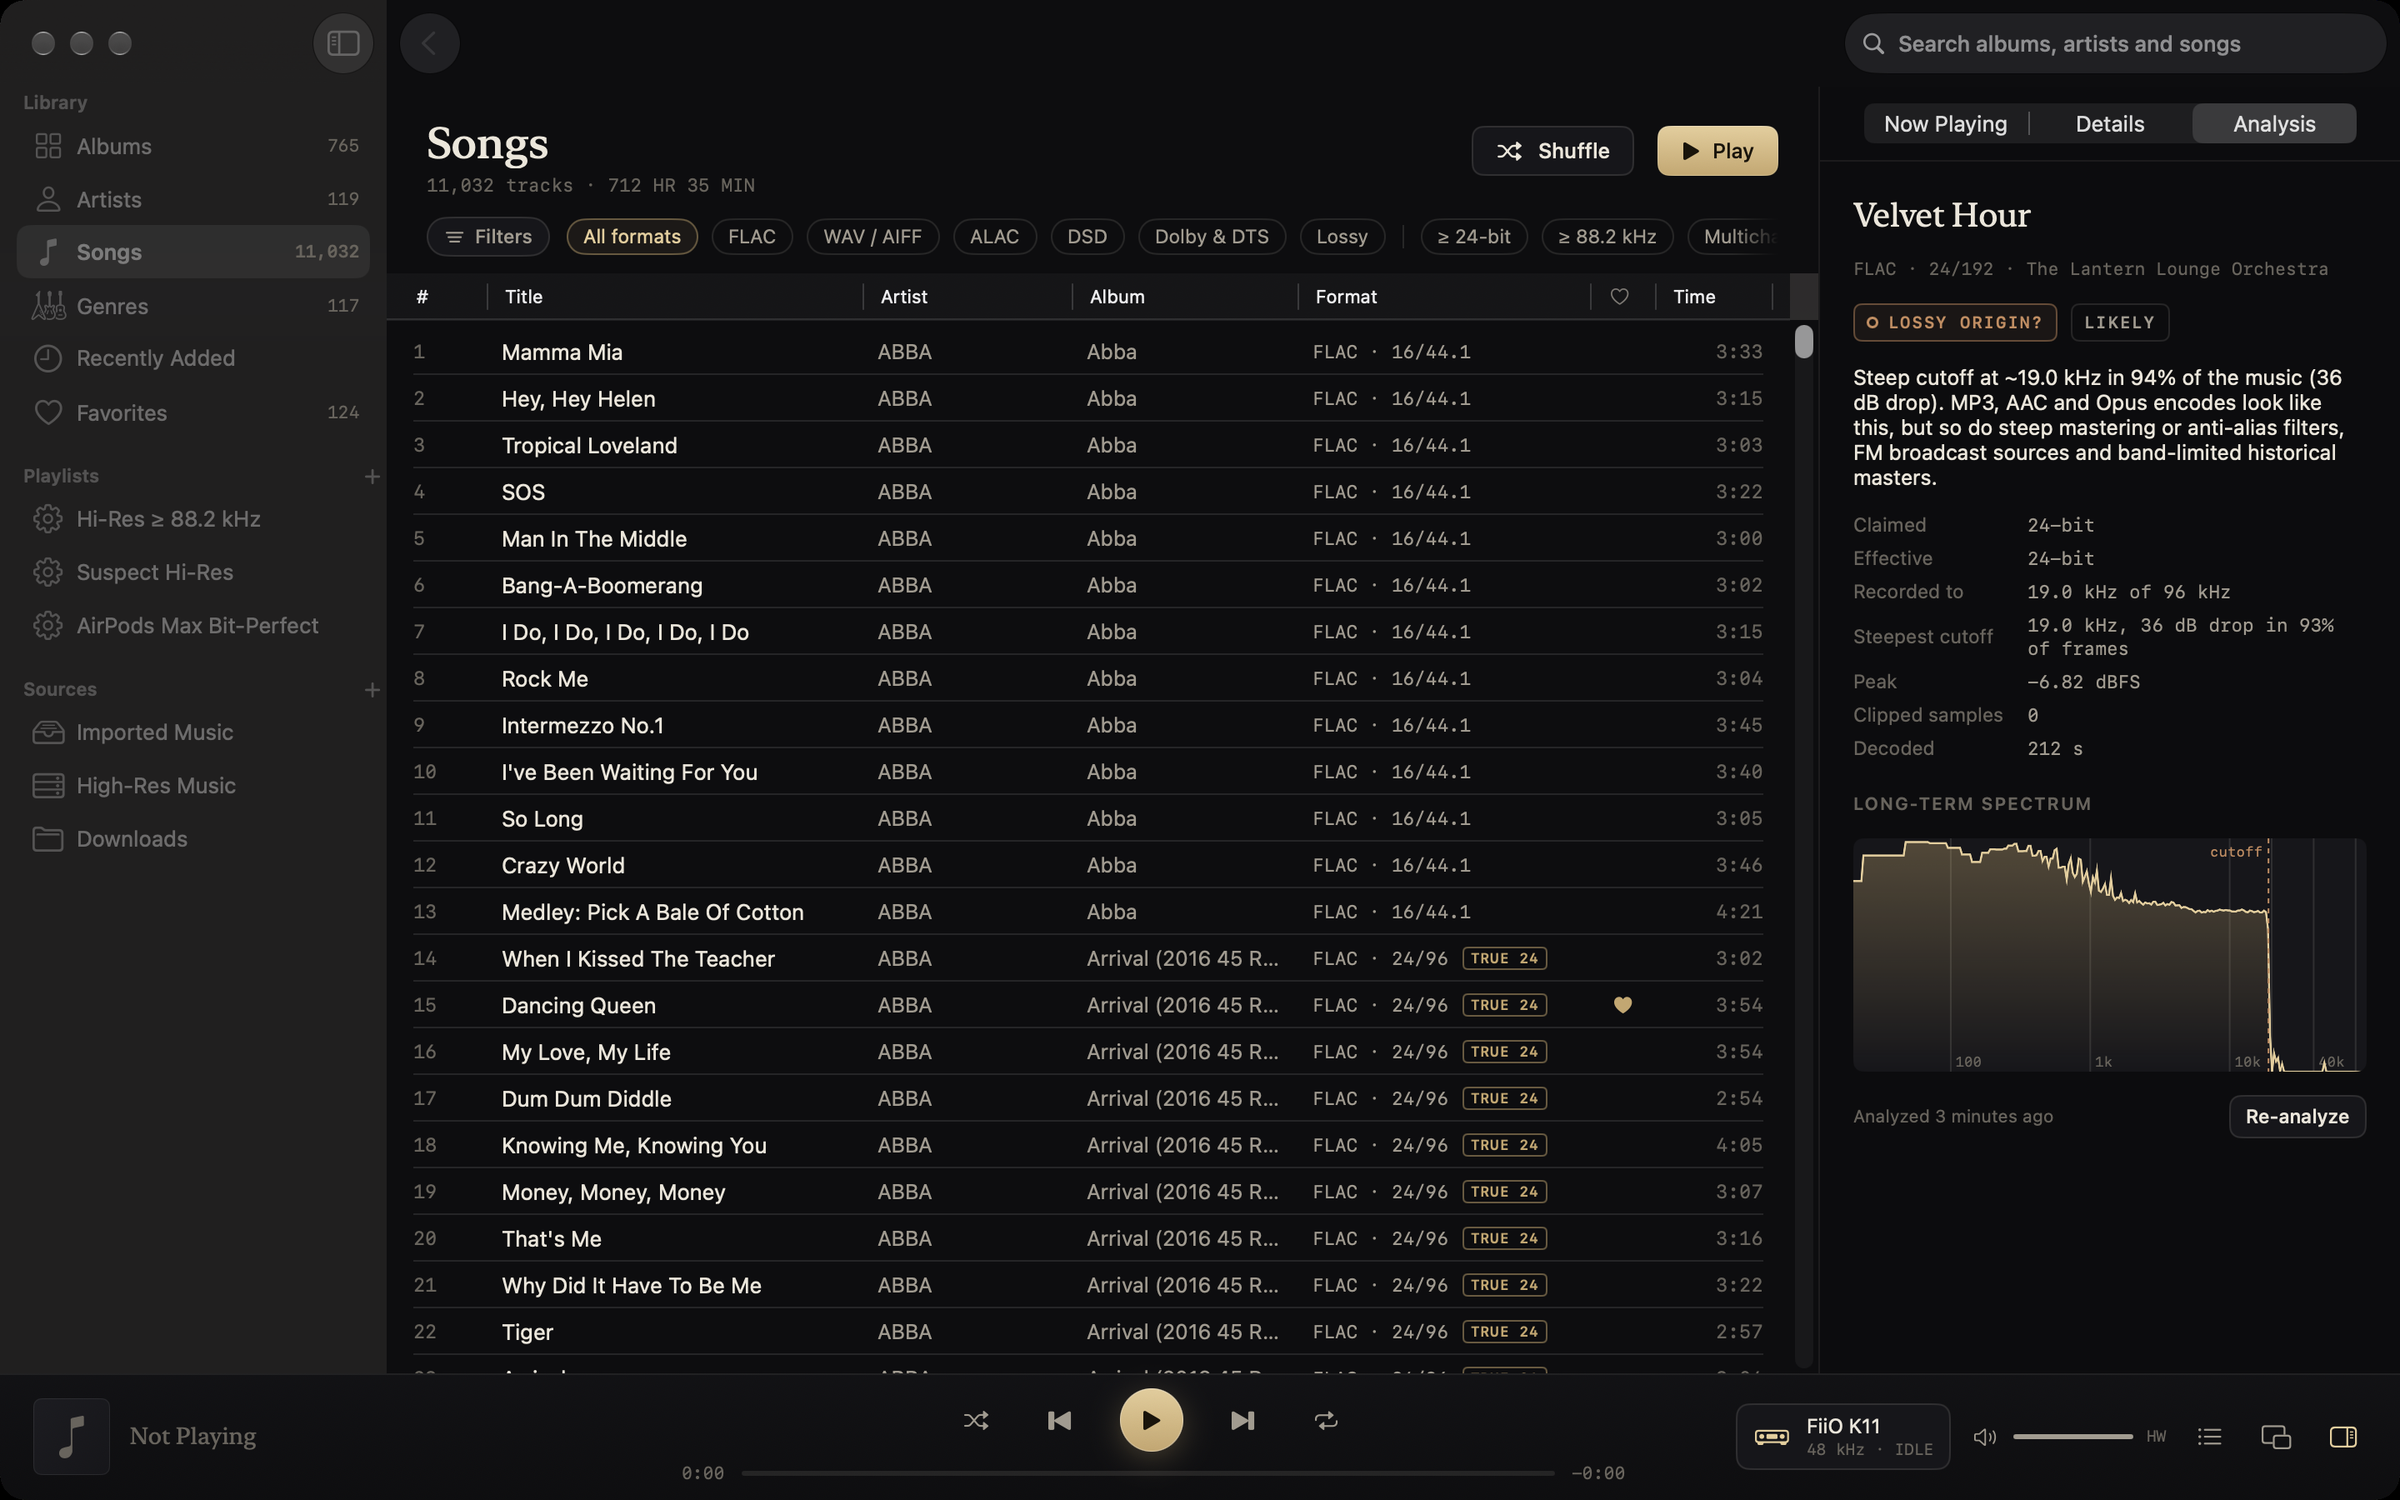
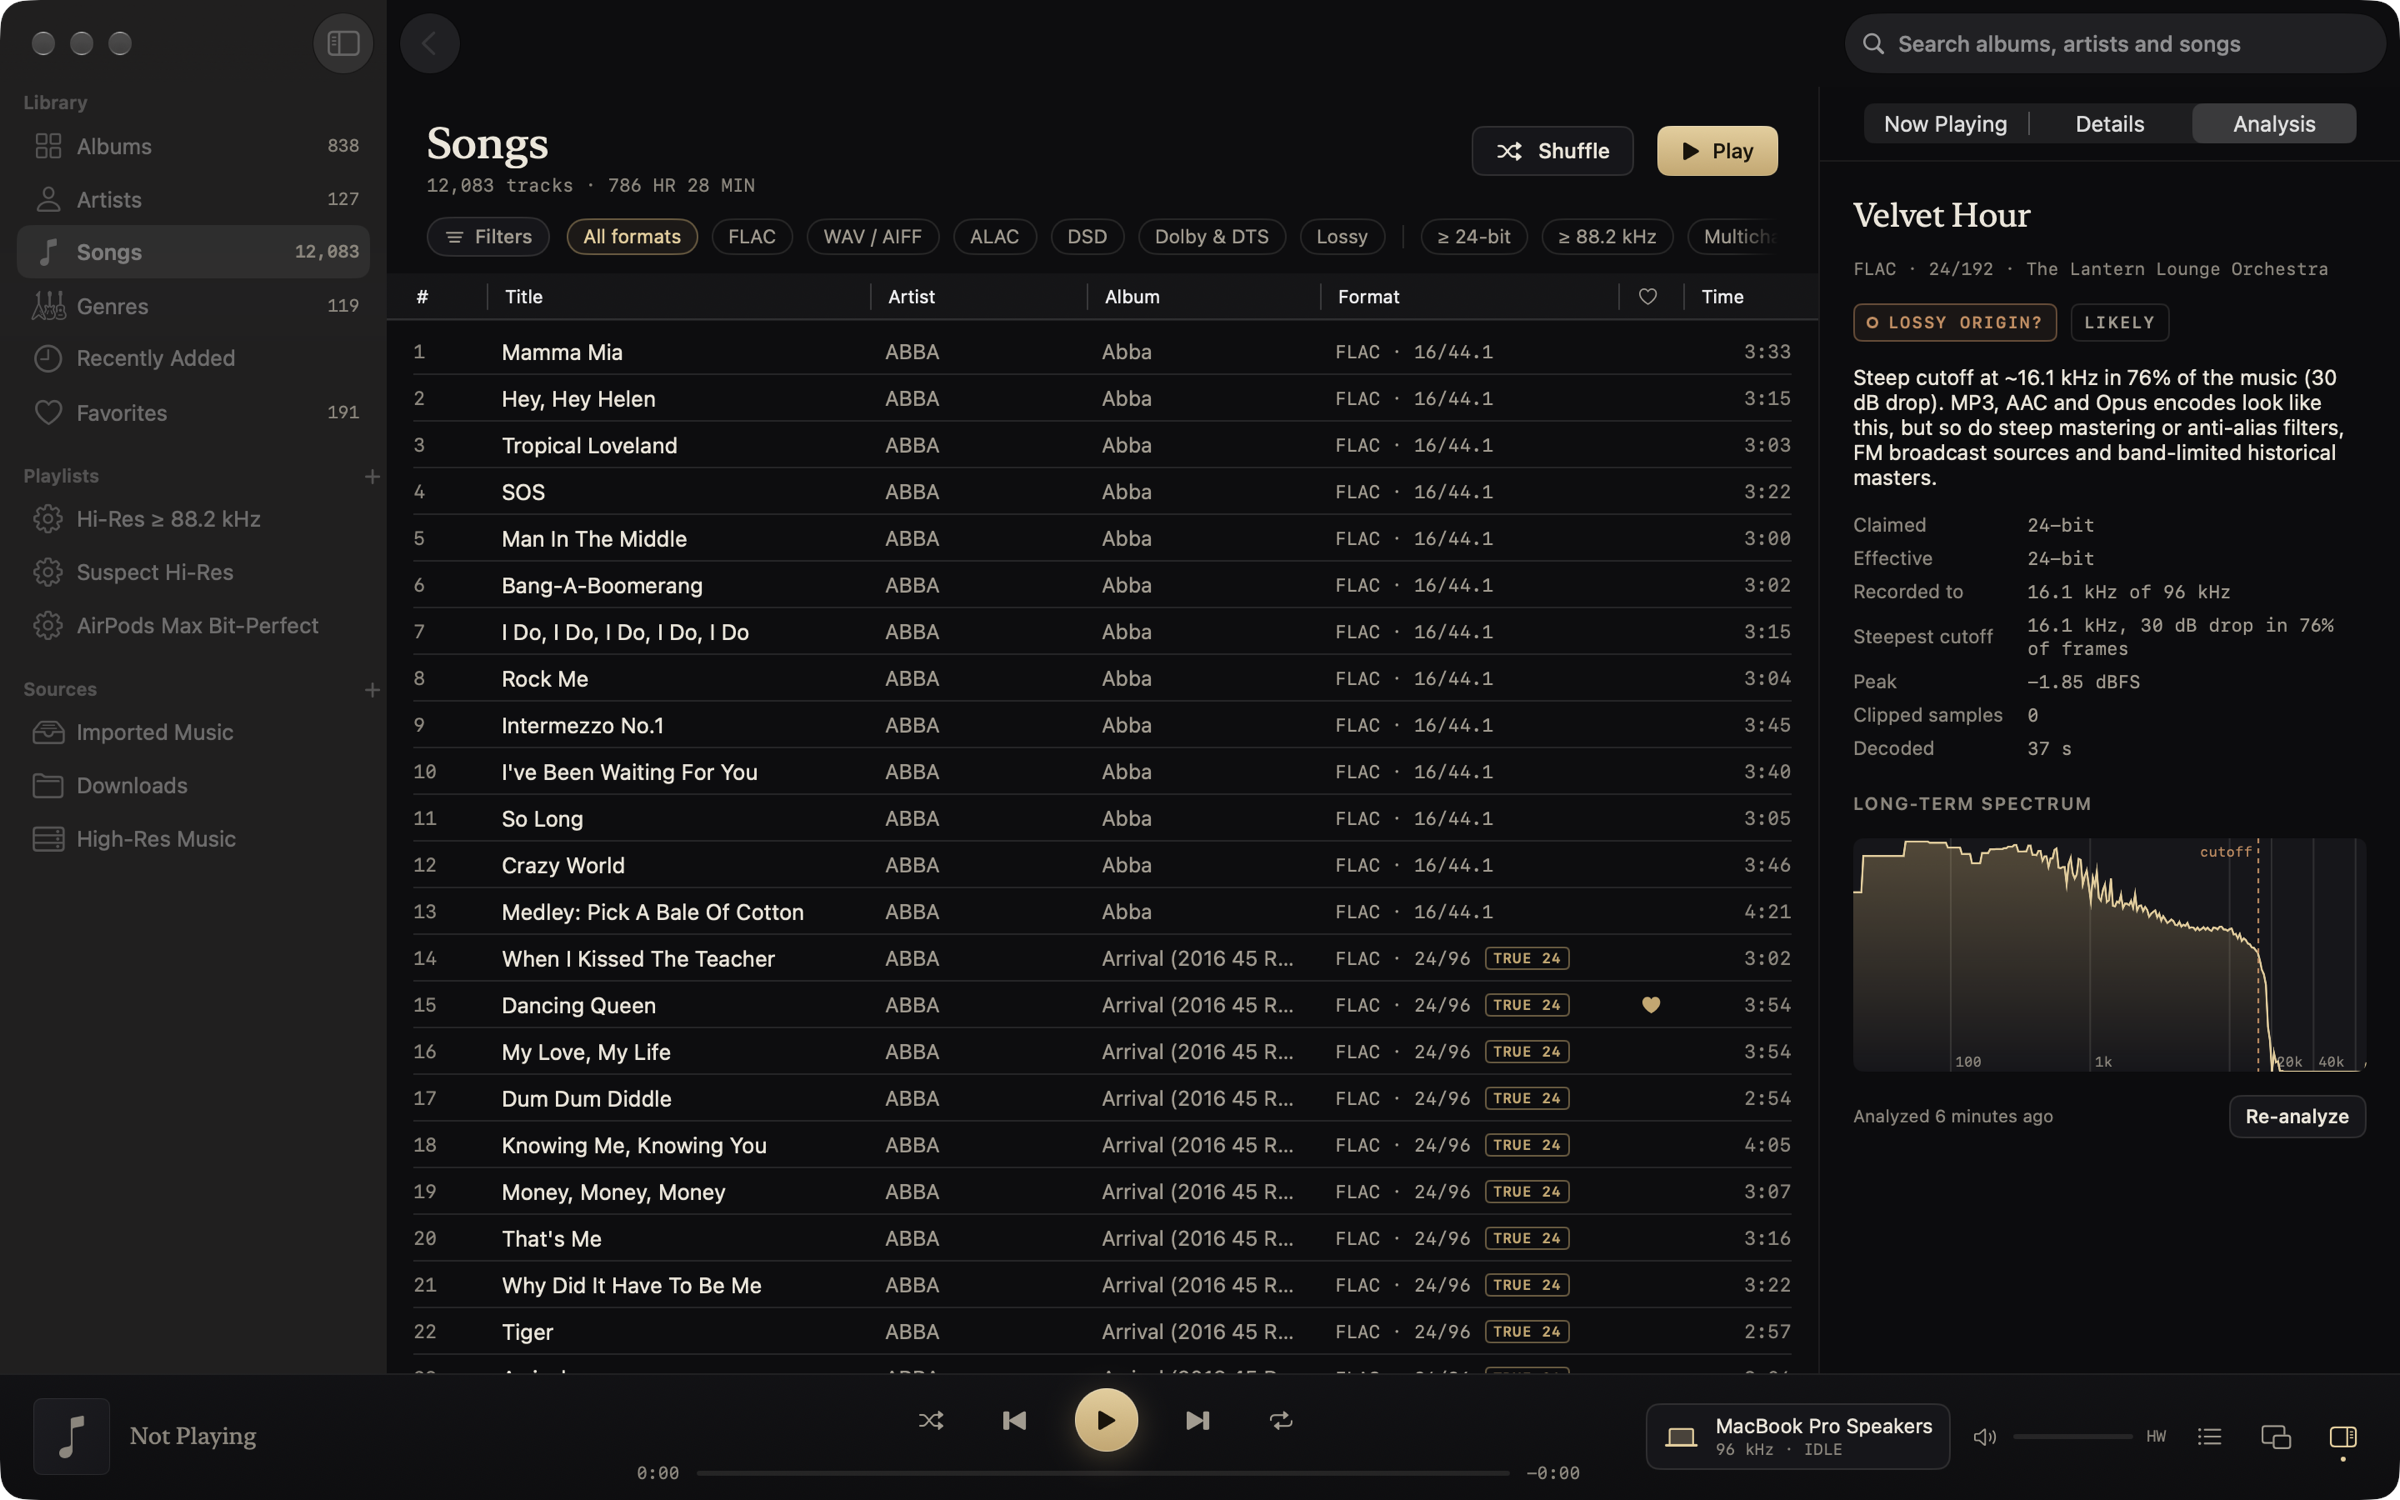
Screenshots: fake hi-res, multichannel albums, search and genres retaken on 1.0.0
Shot on a copy of the library with the window at 1440x900 pt (new -VespertineWindowSize) and
background analysis off. The fake hi-res analysis matches vespertine-probe on the same file.

diff --git a/App/Sources/App/DeveloperHooks.swift b/App/Sources/App/DeveloperHooks.swift
@@ -51,6 +51,18 @@ enum DeveloperHooks {
         if d.bool(forKey: "VespertineOpenSettings") {
             NSApp.sendAction(Selector(("showSettingsWindow:")), to: nil, from: nil)
         }
+        // `-VespertineWindowSize 1440x900`: sizes the main window (in points), so every screenshot has one framing
+        // whatever frame the window last saved.
+        if let size = d.string(forKey: "VespertineWindowSize")?.split(separator: "x").compactMap({ Double($0) }), size.count == 2 {
+            Task {
+                try? await Task.sleep(for: .seconds(1))
+                if let window = NSApp.windows.filter({ $0.isVisible && $0.styleMask.contains(.titled) })
+                    .max(by: { $0.frame.width * $0.frame.height < $1.frame.width * $1.frame.height }) {
+                    let visible = window.screen?.visibleFrame ?? window.frame
+                    window.setFrame(NSRect(x: visible.minX + 40, y: visible.maxY - size[1] - 20, width: size[0], height: size[1]), display: true)
+                }
+            }
+        }
         if let path = d.string(forKey: "VespertineSnapshot") {
             Task { await snapshotLoop(to: path, delay: d.double(forKey: "VespertineSnapshotDelay"), repeats: max(1, d.integer(forKey: "VespertineSnapshotCount"))) }
         }
@@ -128,13 +140,13 @@ enum DeveloperHooks {
                 model.player.engine.pause()
             }
         }
-        // `-VespertinePlaySong "Title|Artist|DSD"`: opens and plays the album holding that song, from that song. Artist and
+        // `-VespertinePlaySong "Title|Artist|DSD"`: opens and plays the album holding the first song whose title contains Title, from that song. Artist and
         // a format word (matched against the format summary, e.g. "5.1", "DSD128", "24/96") are optional and pick one
         // version where the library has several.
         if let spec = d.string(forKey: "VespertinePlaySong") {
             let parts = spec.split(separator: "|").map { $0.trimmingCharacters(in: .whitespaces) }
             let matches = { (t: Track) -> Bool in
-                t.title.localizedCaseInsensitiveCompare(parts[0]) == .orderedSame
+                t.title.localizedCaseInsensitiveContains(parts[0])
                     && (parts.count < 2 || parts[1].isEmpty || t.displayAlbumArtist.localizedCaseInsensitiveContains(parts[1]))
                     && (parts.count < 3 || t.formatSummary.localizedCaseInsensitiveContains(parts[2]))
             }

diff --git a/docs/press/shot-list.md b/docs/press/shot-list.md
@@ -1,18 +1,18 @@
 # 1.0 shot list
 
 Every image and video of the app interface, the track each one is shot on, what it needs, and what has to be true on
-screen before it ships. Shot on Vespertine 1.0.0 against the maker's library. Everything else (press key art, site
+screen before it ships. Shot on Vespertine 1.0.0 against a copy of the maker's library (`-VespertineDataDirectory`), with the window at 1440×900 pt (`-VespertineWindowSize`) on a Retina display, captured window-only and scaled to 2400×1500, and background analysis off (`-autoAnalyze NO`). Everything else (press key art, site
 JPEGs, the tour, the social previews) is derived from these by the scripts named at the end.
 
 | Scene (`docs/screenshots/`) | Track | Needs | True on screen |
 |---|---|---|---|
-| `multichannel-albums` | Albums, Multichannel chip | library | the grid shows *Let It Be* (The Beatles, DTS CD 44.1 kHz 5.1), Bob Dylan DSD64 5.1, Elton John 24/88.2 5.1 and Oasis DSD64 5.1 |
+| `multichannel-albums` | Albums, Multichannel chip | library | the grid shows Bob Dylan's *Blood on the Tracks* DSD64 5.1, Elton John's *Goodbye Yellow Brick Road* and Oasis's *Morning Glory* SACD among the multichannel albums |
 | `bit-perfect-fiio-24-192` (renamed `bit-perfect-fiio-24-96`) | *Les jeux d'eau à la Villa d'Este*, Lazar Berman (FLAC 24/96) | FiiO K11, exclusive mode | BIT-PERFECT badge; source 24/96, device 96 kHz native, unity volume, hog mode; TRUE 24 badge from analysis |
 | `dsd-native-dop` | *Love for the Sake of Love*, Claudja Barry (DSD128) | FiiO K11, DoP enabled for it | DSD128 source; DoP at 352.8 kHz on the device; no PCM conversion step; BIT-PERFECT shown only if the path says so |
 | `stereo-and-surround-versions` | *Don't Look Back in Anger*, Oasis: stereo 24/96 and DSD64 5.1 | library | the song listed once with both versions; the version played matches the output (stereo on a stereo device) |
 | `spatial-audio-airpods-max` | *Candle in the Wind*, Elton John (24/88.2 5.1) | AirPods Max, head tracking on | Spatial Audio active, 6 channels in, head tracking shown; no BIT-PERFECT badge (it's rendered, not bit-perfect) |
 | `fake-hi-res-detection` | *Velvet Hour*, The Lantern Lounge Orchestra (the deliberate fake: MP3 192 kb/s → 24/192) | none | LOSSY ORIGIN?; claimed 24/192; steep cutoff ~16 kHz (measured on dormhub with `vespertine-probe` on a fresh fake from `score.py`, 76% of frames, 30 dB drop) |
-| `search` | search "Oasis" (or "Let it be"); the list includes *Lost*, Cali Life Style (MP3 128 kb/s) | library | MP3 · 128 kb/s, Lossy, and no hi-res badge on it |
+| `search` | search "Let It Be"; *Let It Be*, The Beatles (DTS CD, 44.1 kHz 5.1) selected | library | DTS · 44.1 kHz · 5.1 next to the stereo FLAC mix and Dolly Parton's 24/96; tags read-only on the share |
 | `genres`, `smart-playlist` | library pages; smart playlist *AirPods Max Bit-Perfect* | library | counts match the library; rules shown are the playlist's |
 | `mini-player` | *Don't Look Back in Anger*, Oasis (24/48) on AirPods Max | AirPods Max | BIT-PERFECT only if the device runs at 48 kHz with unity volume |
 
